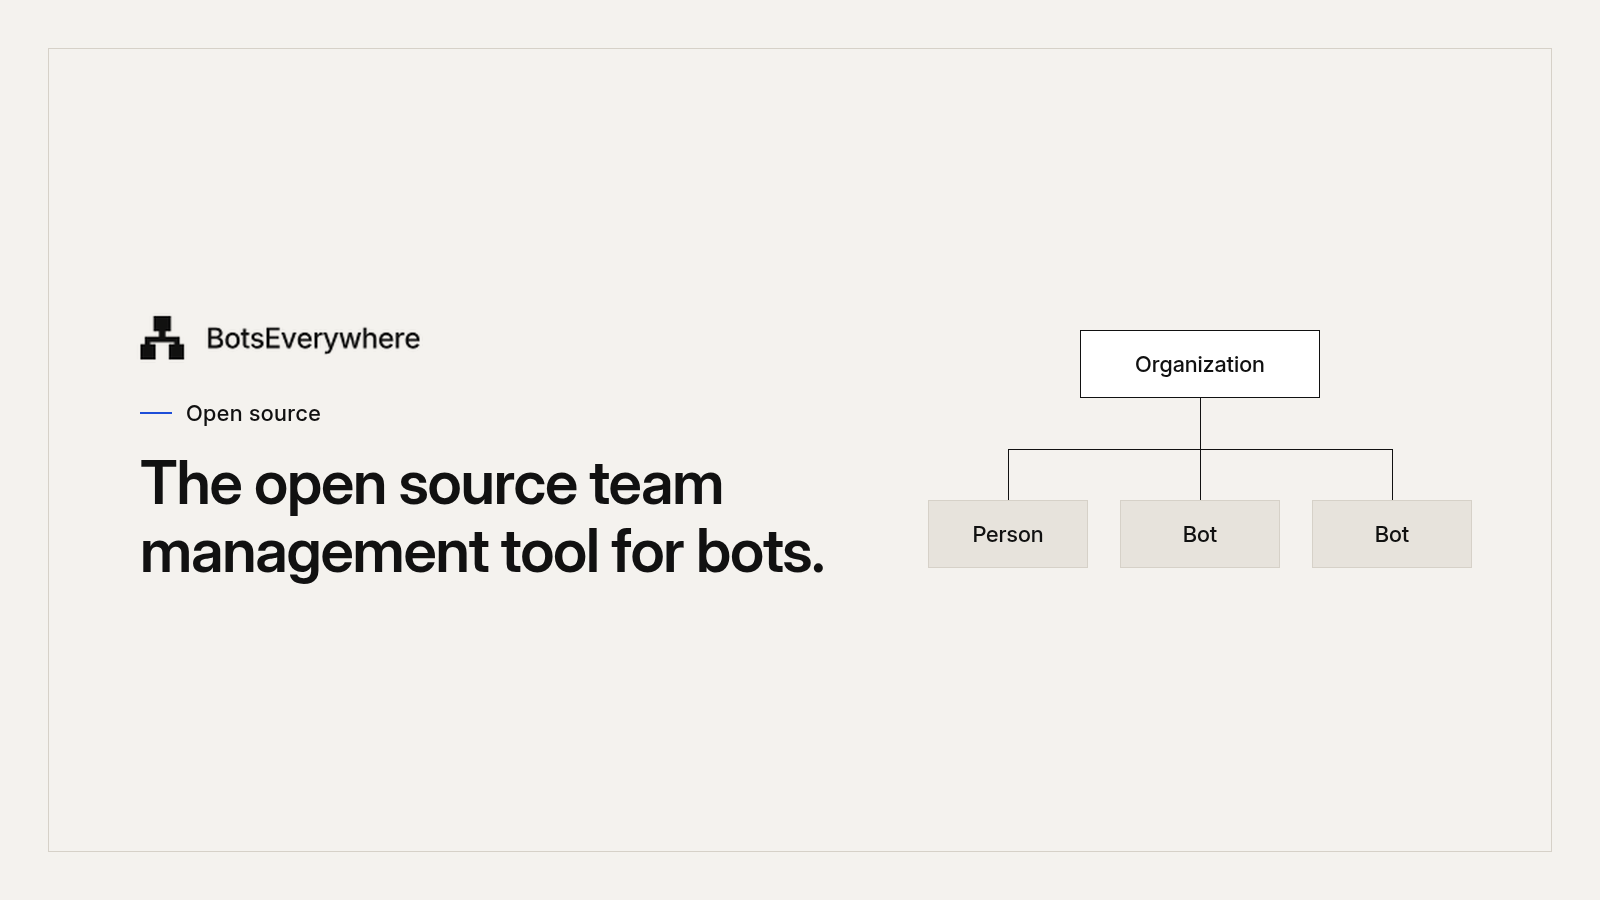
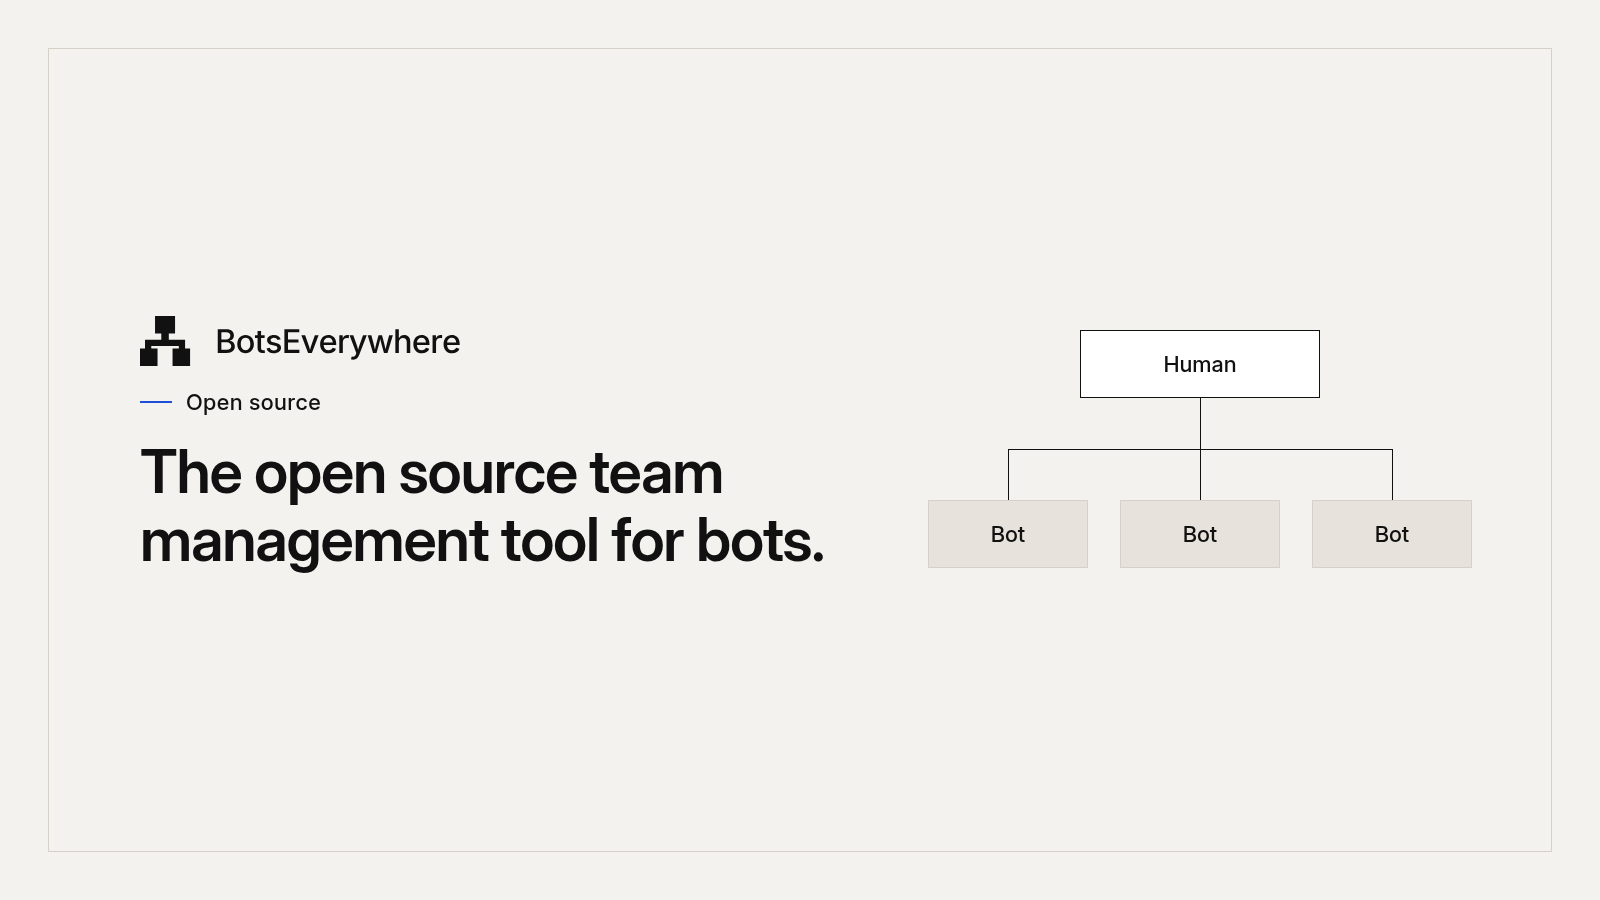
Hero and social preview: a human with three bots

diff --git a/README.md b/README.md
@@ -1,6 +1,6 @@
 # BotsEverywhere
 
-![BotsEverywhere: the open source team management tool for bots. An organization with a person and two bots under it.](docs/images/hero.png)
+![BotsEverywhere: the open source team management tool for bots. A human with three bots reporting to them.](docs/images/hero.png)
 
 BotsEverywhere is an open source team management tool for bots.
 
